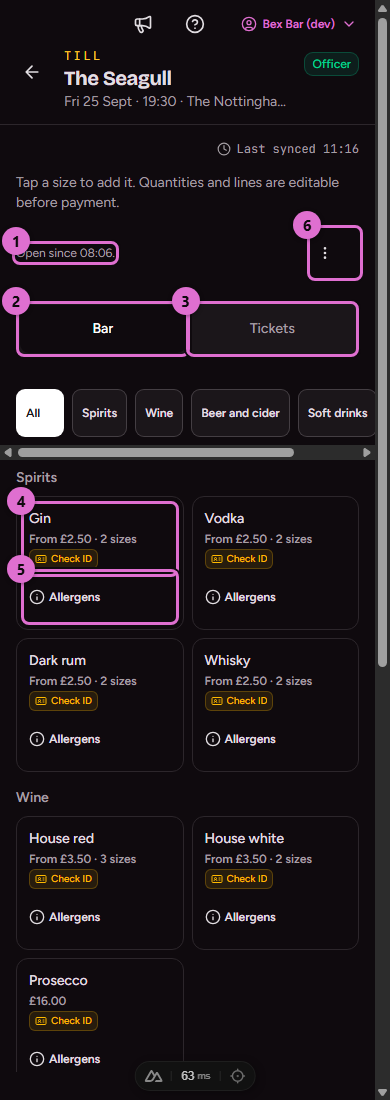
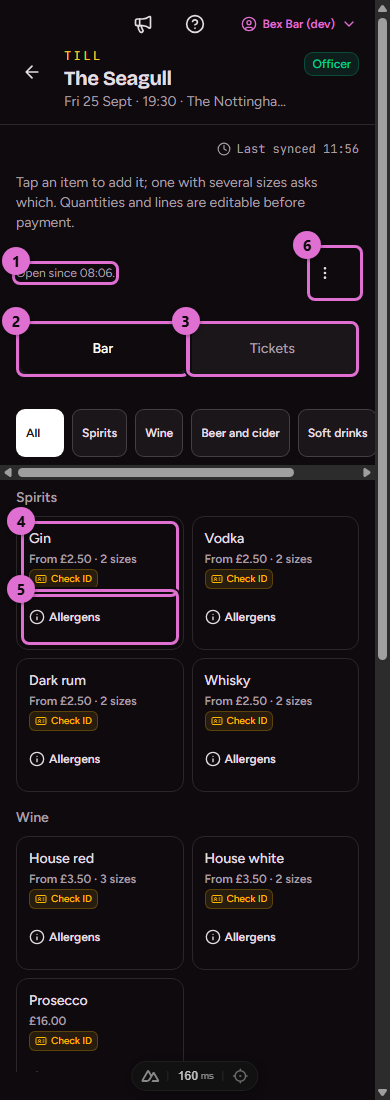
A walk-in that loses the race for a new address gets the account made; the till hint names the item (G-117 criterion 10)
Two trainers adding the same new address at once used to leave the second with a 409. The unique
address still decides which batch writes the account; the lookup that lost now reads it back and
answers with it, as if the search had found it. The till's empty-basket hint said to tap a size,
but a drink in several sizes is tapped as an item first and asks for the size after.

diff --git a/tests/integration/training-walk-ins.test.ts b/tests/integration/training-walk-ins.test.ts
@@ -118,16 +118,19 @@ describe('a walk-in joins the register as a walk-in (G-117 criterion 5)', () => 
 
 // What the lookup runs once its own checks have passed: the batch, then reading back whether the
 // account was written, since a predicate that refused raises nothing (0003).
-function mint(database: TestDatabase, index: number, email: string): { status: number } {
+function mint(database: TestDatabase, index: number, email: string): { status: number, id?: string } {
   const id = `walk-in-${index}`
   const created = auditEntry({ actorId: 'u-trainer', action: 'account.created.console', target: `user:${id}` })
   try {
     database.batch(walkInAccountStatements(id, email, email, created).map(statement => boundStatement(database, statement)))
   }
   catch (error) {
-    return { status: pendingGrantConstraintRefusal(error)?.statusCode ?? 500 }
+    if (!pendingGrantConstraintRefusal(error)) return { status: 500 }
+    // Losing the unique address means somebody else made it: answer with theirs (criterion 10).
+    const [held] = rows<{ id: string }>(database, 'SELECT id FROM users WHERE email = ? AND anonymised_at IS NULL', email)
+    return held ? { status: 200, id: held.id } : { status: 409 }
   }
-  return { status: rows(database, 'SELECT id FROM users WHERE id = ?', id).length ? 200 : 409 }
+  return rows(database, 'SELECT id FROM users WHERE id = ?', id).length ? { status: 200, id } : { status: 409 }
 }
 
 // Pre-link the address to another member's account, as A-104 criterion 6's route writes it.
@@ -160,6 +163,18 @@ describe('a walk-in by address mints a shadow account only while nobody is pre-l
       expect(mint(database, 0, WORKSPACE).status).toBe(409)
       expect(rows(database, 'SELECT id FROM users WHERE email = ?', WORKSPACE)).toHaveLength(0)
       expect(rows(database, `SELECT id FROM audit_log WHERE target = 'user:walk-in-0'`)).toHaveLength(0)
+    })
+  })
+
+  test('two walk-ins racing for one new address both answer with the one account made (criterion 10)', async () => {
+    await withDatabase(async (database) => {
+      seed(database)
+      const answers = await race(2, async index => mint(database, index, 'twice@example.test'))
+      expect(answers.map(answer => answer.status)).toEqual([200, 200])
+      const made = rows<{ id: string }>(database, 'SELECT id FROM users WHERE email = ?', 'twice@example.test')
+      expect(made).toHaveLength(1)
+      expect(answers.map(answer => answer.id)).toEqual([made[0]!.id, made[0]!.id])
+      expect(rows(database, `SELECT id FROM audit_log WHERE action = 'account.created.console'`)).toHaveLength(1)
     })
   })
 

diff --git a/tests/e2e/training-register.test.ts b/tests/e2e/training-register.test.ts
@@ -437,6 +437,17 @@ describe.skipIf(skip !== null)('somebody who turned up untracked (G-117)', () =>
     expect(second.created).toBe(false)
   }, CASE_TIMEOUT_MS)
 
+  test('two trainers adding one new address at once both get the one account made (criterion 10)', async () => {
+    const email = registrableAddress('walk-in-racing')
+    const answers = await Promise.all([lookup({ email }), lookup({ email })])
+    expect(answers.map(answer => answer.status)).toEqual([200, 200])
+
+    const bodies = await Promise.all(answers.map(async answer => await answer.json() as { id: string, created: boolean }))
+    expect(bodies[0]!.id).toBe(bodies[1]!.id)
+    expect(bodies.filter(body => body.created)).toHaveLength(1)
+    expect(read<{ n: number }>('SELECT count(*) n FROM users WHERE email = ?', email)?.n).toBe(1)
+  }, CASE_TIMEOUT_MS)
+
   test('an erased account is refused, because a record cannot attach to a tombstone', async () => {
     const email = registrableAddress('walk-in-erased')
     const { id } = await (await lookup({ email })).json() as { id: string }

diff --git a/server/api/admin/training/attendees/lookup.post.ts b/server/api/admin/training/attendees/lookup.post.ts
@@ -45,8 +45,11 @@ export default defineEventHandler(async (event) => {
   }
   catch (error) {
     const refusal = pendingGrantConstraintRefusal(error)
-    if (refusal) throw createError(refusal)
-    throw error
+    if (!refusal) throw error
+    // Losing the unique address means another trainer made the account a moment ago (G-117 criterion 10).
+    const made = await findByEmail(email)
+    if (made && made.anonymisedAt === null) return { id: made.id, name: made.name, created: false }
+    throw createError(refusal)
   }
   // The insert's own predicate refused it: a pre-link landed between the check and the write.
   if (!await findById(id)) {

diff --git a/tests/e2e/till.test.ts b/tests/e2e/till.test.ts
@@ -702,7 +702,7 @@ describe.skipIf(skip !== null)('the show-night layout (K-102, issue 1150 item 8)
   // A hint is for the first sale of the night, not a line above every one of them.
   test('the hint goes once there is something in the basket', async () => {
     const { view, productId } = await atTheTill()
-    expect(await textOf(view, '[data-test="night-hint"]')).toContain('Tap a size')
+    expect(await textOf(view, '[data-test="night-hint"]')).toContain('Tap an item to add it')
 
     await click(view, `[data-test="product-${productId}"]`)
     await waitFor(view, `document.querySelector('[data-test="night-hint"]') === null`)

diff --git a/app/pages/tonight/till/index.vue b/app/pages/tonight/till/index.vue
@@ -410,7 +410,7 @@ const allergenOpen = ref<{ name: string, state: SaleProduct['allergenState'], no
     <NightScreen
       title="Till"
       :hint="session
-        ? (basketEmpty ? 'Tap a size to add it. Quantities and lines are editable before payment.' : undefined)
+        ? (basketEmpty ? 'Tap an item to add it; one with several sizes asks which. Quantities and lines are editable before payment.' : undefined)
         : 'One till for the whole night. Everyone at this bar sells against it.'"
       :stale="session ? catalogue.cachedAt.value : syncedAt"
       :busy="busy || catalogue.pending.value"

diff --git a/docs/backlog/G-training.md b/docs/backlog/G-training.md
@@ -292,6 +292,7 @@ Counts: 27 MVP stories (G-101 to G-123, G-125, G-128 to G-130), 12 V2 stories (G
   7. Amended 2 September 2026: a walk-in joins at the back of the sign-up order, so nobody who signed up in advance loses a place to somebody added at the door.
   8. Amended 2 September 2026: an erased account is refused outright, in both surfaces. Attaching training to a tombstone would write a person back onto the row their erasure emptied (0011).
   9. Amended 24 September 2026 (issue 1284): an address that an account is pre-linked to for Google sign-in mints nothing and is refused with the instruction to choose that account (A-104, 0091). The shadow account's insert carries that condition as its predicate, so a pre-link that lands after the check and before the write is refused the same way and leaves no account and no audit entry (0003).
+  10. Amended 25 September 2026 (issue 1291): two trainers adding the same new address at once leave exactly one account and one creation entry, the unique address being the conditional write (0003). The one whose write lost is answered with the account the other made, as if it had been found by the search, rather than refused.
 - Source: Prompt Book G-2; audit TR-5
 
 ## G-118: Retrospective delivery logging with dry-run

diff --git a/docs/data-model.md b/docs/data-model.md
@@ -2354,6 +2354,8 @@ mints the claimable password-less account A-116 describes and refuses an anonymi
 attaching training to a tombstone would write a person back onto the row erasure emptied (0011).
 An address an account is pre-linked to for Google (A-104) is refused up front, with the same check
 a record by address makes (0091).
+Two trainers minting the same new address at once leave one account: the unique address is the
+conditional write, and the lookup whose batch lost answers with the account the other made (0003).
 The same lookup serves the retrospective log, because teaching off-system is often taught to people
 who have not signed in.
 
